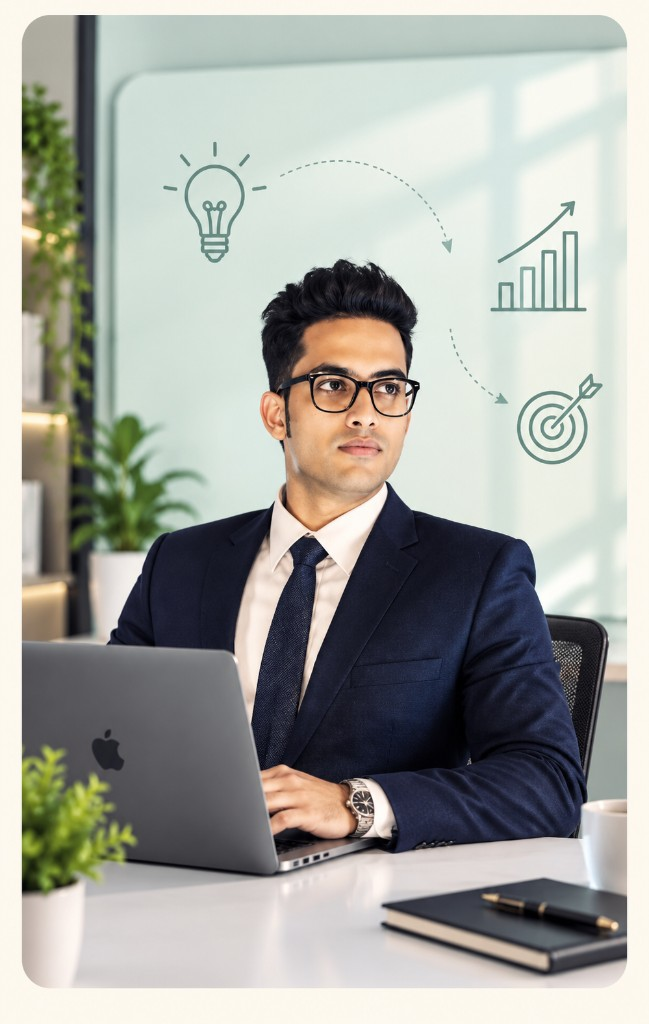
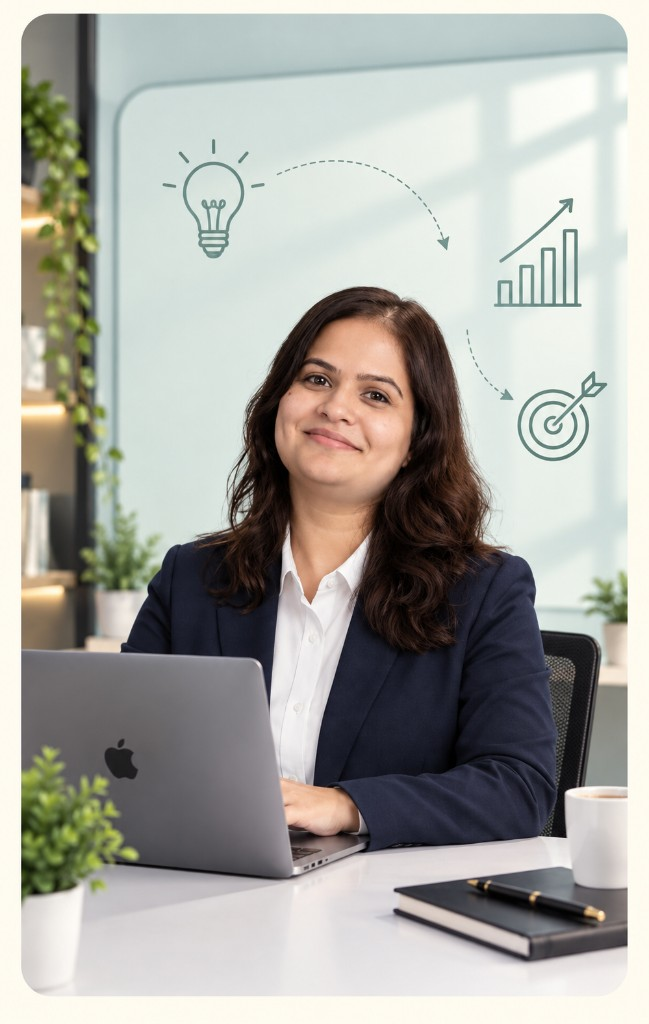
Replace Comms lead with Aditi photo and name.

diff --git a/src/pages/About.tsx b/src/pages/About.tsx
@@ -160,12 +160,12 @@ export function About() {
                 alt: 'Shubhram, Insights lead, working at a laptop in a bright office',
               },
               {
-                name: 'Aseem',
+                name: 'Aditi',
                 title: 'Comms lead',
                 role: 'Communication',
                 note: 'Reports, stories, stakeholder clarity',
                 photo: `${import.meta.env.BASE_URL}images/team-comms-lead.jpg`,
-                alt: 'Aseem, Comms lead, working at a laptop in a bright office',
+                alt: 'Aditi, Comms lead, working at a laptop in a bright office',
               },
             ].map((t) => (
               <div className="team-card" key={t.name}>
